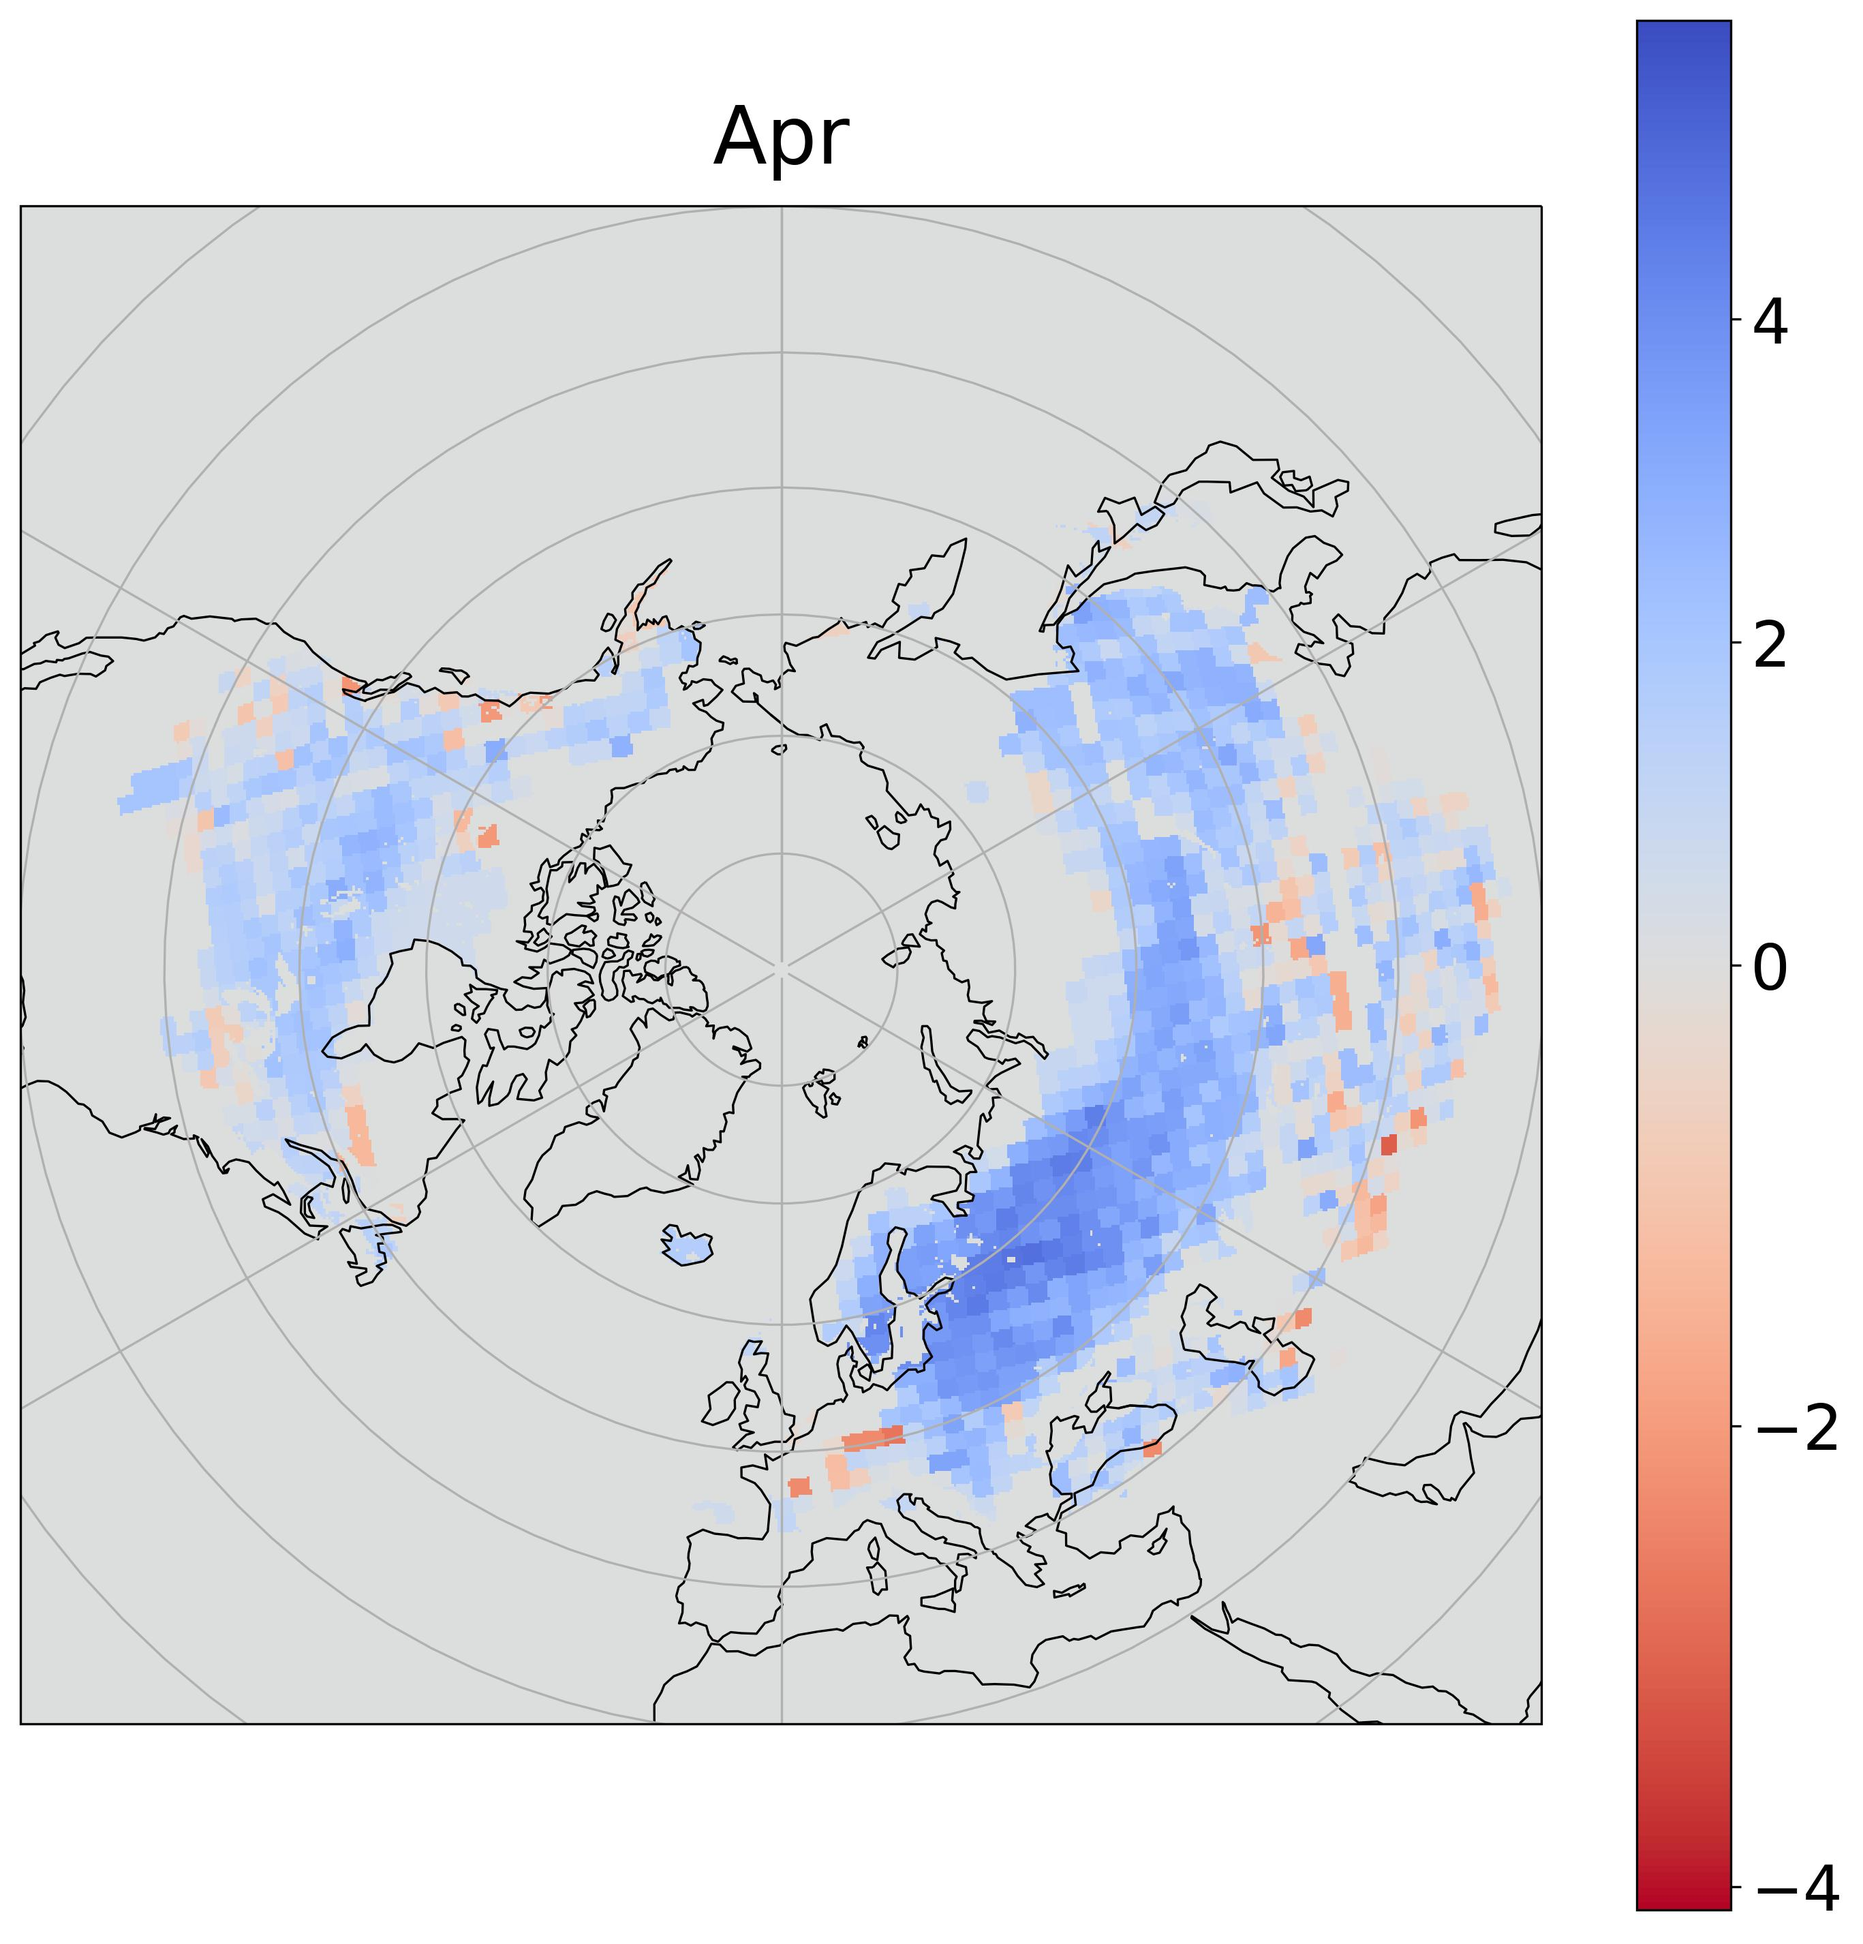
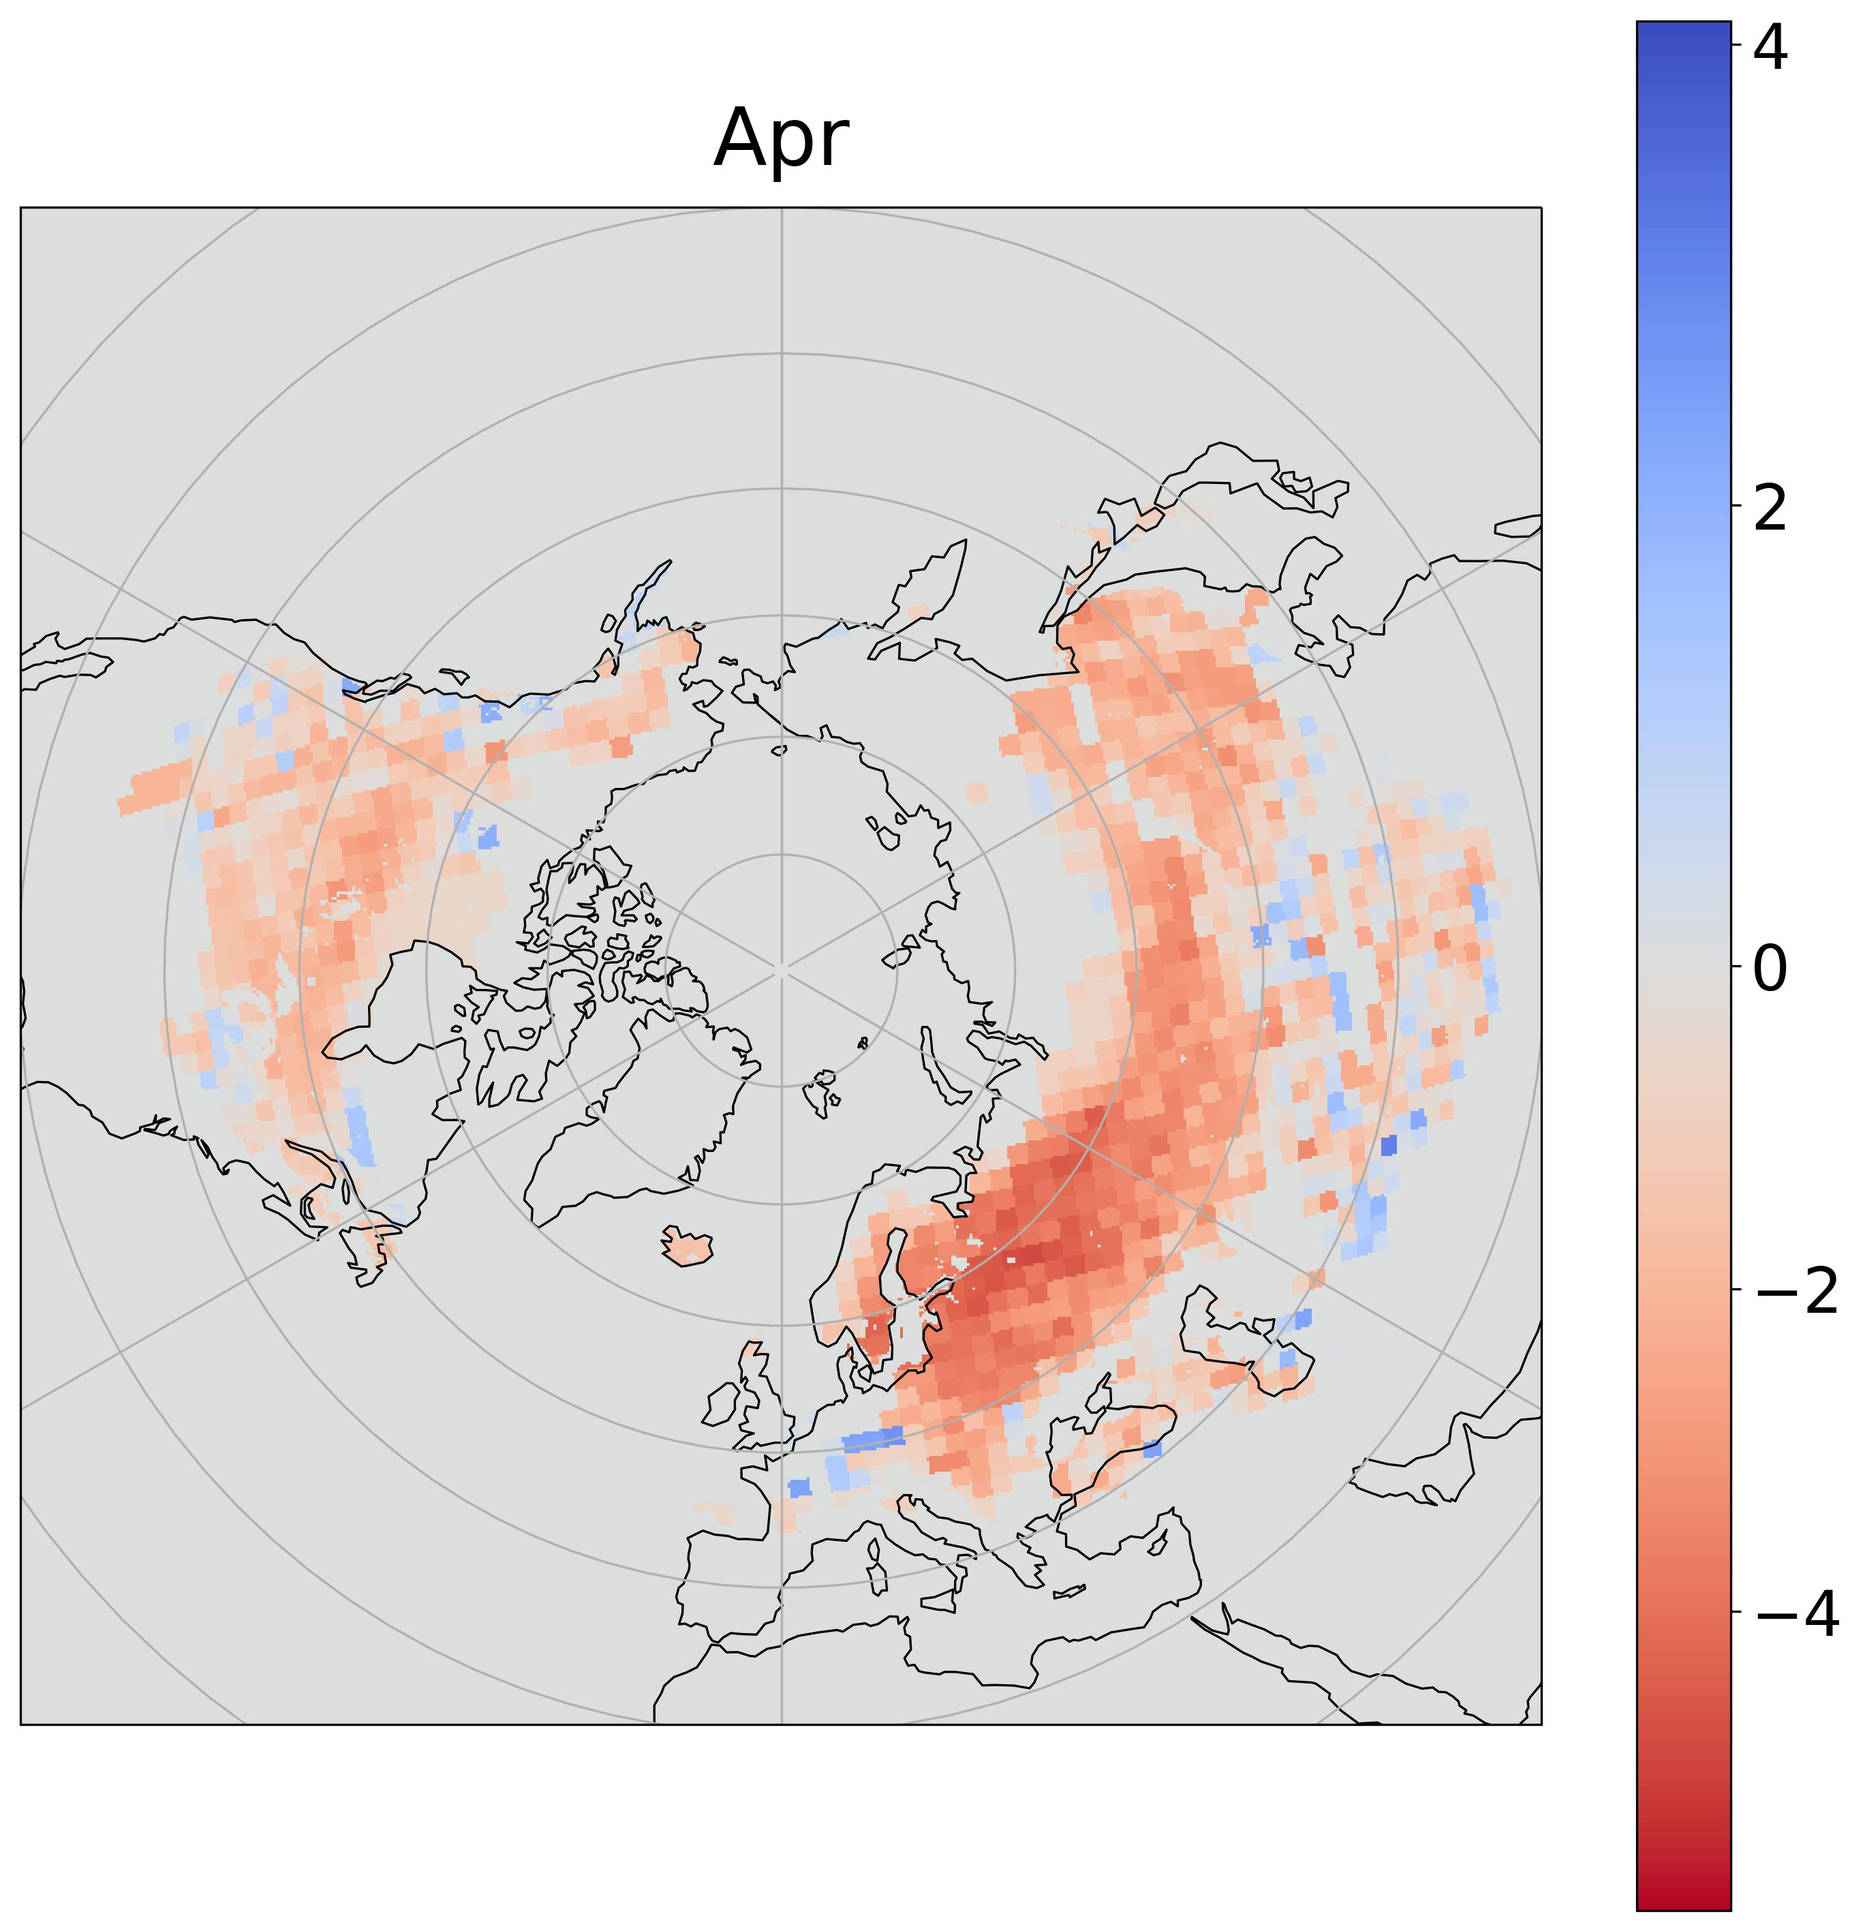
Rerun w/ tables and flipped april

diff --git a/detrended_covar_v2.py b/detrended_covar_v2.py
@@ -516,6 +516,13 @@ def monthly_computation_handler(month, lat, lon):
     evr = snow_fpca.getExpVar()
 
 
+    ### To fix april plotting
+    if month == 4:
+        pc *= -1
+        eof *= -1
+    ###
+
+
     ######## PLOTTING #########
     print("Plotting...")
     xlocs = np.array([-5, 0, 5, 10, 15, 20, 25, 30, 35, 40, 48])

diff --git a/nondetrended_covar_v2.py b/nondetrended_covar_v2.py
@@ -507,6 +507,12 @@ def monthly_computation_handler(month, lat, lon):
     eof = snow_fpca.getEOFs()
     evr = snow_fpca.getExpVar()
 
+    ### To fix april plotting
+    if month == 4:
+        pc *= -1
+        eof *= -1
+    ###
+
 
     ######## PLOTTING #########
     print("Plotting...")
